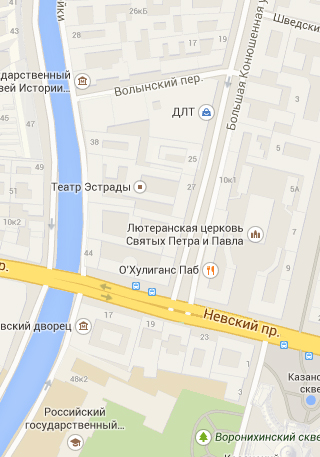
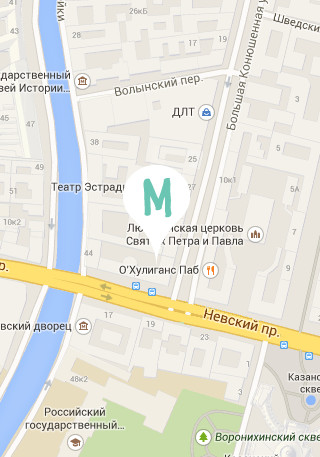
Исправил замечания. Шаг 5

Changed region(s): [[0.375, 0.3676, 0.5938, 0.5514]]

diff --git a/index.html b/index.html
@@ -121,6 +121,29 @@
       </section>
     </footer>
     <script src="js/scripts.js"></script>
-    <script type="text/javascript" charset="utf-8" async src="https://api-maps.yandex.ru/services/constructor/1.0/js/?sid=zUaNdwYxSM4sO9yBkfZi50SWvhqZyJEo&width=auto&height=460&lang=ru_RU&sourceType=constructor&scroll=true&id=yandex-map"></script>
+    <!-- <script type="text/javascript" charset="utf-8" async src="https://api-maps.yandex.ru/services/constructor/1.0/js/?sid=zUaNdwYxSM4sO9yBkfZi50SWvhqZyJEo&width=auto&height=460&lang=ru_RU&sourceType=constructor&scroll=true&id=yandex-map"></script> -->
+    <script src="https://api-maps.yandex.ru/1.1/index.xml" type="text/javascript"></script>
+    <script type="text/javascript">
+      // Создание обработчика для события window.onLoad
+      YMaps.jQuery(function () {
+          // Создание экземпляра карты и его привязка к созданному контейнеру
+          var map = new YMaps.Map(YMaps.jQuery("#yandex-map")[0]);
+          map.setCenter(new YMaps.GeoPoint(30.3219187, 59.9390039), 17);
+          map.addControl(new YMaps.ToolBar());
+          map.addControl(new YMaps.Zoom());
+
+          // Создание стиля для значка метки
+          var s = new YMaps.Style();
+          s.iconStyle = new YMaps.IconStyle();
+          s.iconStyle.href = "/img/icon-map-pin.svg";
+          s.iconStyle.size = new YMaps.Point(70, 100);
+          // s.iconStyle.offset = new YMaps.Point(-35, -100);
+
+          // Создание метки и добавление ее на карту
+          var placemark = new YMaps.Placemark(map.getCenter(), {style: s});
+          map.addOverlay(placemark);
+      });
+    </script>
+
   </body>
 </html>

diff --git a/less/blocks/contacts-email.less b/less/blocks/contacts-email.less
@@ -16,16 +16,16 @@
 
   display: inline-block;
   vertical-align: top;
-  border-bottom: 1px solid @ui-color-green;
+  // border-bottom: 1px solid @ui-color-green;
 
   &:after {
     content: "";
     position: absolute;
     bottom: -2px;
-    right: 0;
-    width: 15px;
-    height: 3px;
-    background: white;
+    left: 0;
+    width: 90%;
+    height: 1px;
+    background: @ui-color-green;
   }
 
   &:hover {
@@ -34,7 +34,10 @@
 
   &:active {
     color: @ui-color-green-active;
-    border-bottom-color: @ui-color-green-active;
+  }
+
+  &:active::after {
+    background: @ui-color-green-active;
   }
 }
 

diff --git a/less/blocks/contacts.less b/less/blocks/contacts.less
@@ -11,13 +11,11 @@
 }
 
 .contacts__map {
-  display: flex;
   width: 320px;
   min-height: 460px;
   margin-bottom: 40px;
 
-  background: url("../img/icon-map-pin.svg") no-repeat,
-              #e1e6e9 url("../img/map-mobile@1x.jpg") no-repeat;
+  background: #e1e6e9 url("../img/map-mobile@1x.jpg") no-repeat;
   background-position: center;
 }
 

diff --git a/js/scripts.js b/js/scripts.js
@@ -1,6 +1,5 @@
 var navMain = document.querySelector('.main-nav');
 var navUser = document.querySelector('.user-nav');
-
 var navToggle = document.querySelector('.page-header__toggle');
 
 navToggle.addEventListener('click', function() {

diff --git a/less/blocks/order-form.less b/less/blocks/order-form.less
@@ -168,6 +168,10 @@
   &--email {
     background-image: url("../img/icon-mail.svg");
   }
+
+  &--invalid {
+    border-color: @input-color-error;
+  }
 }
 
 .order-form__order-btn {
